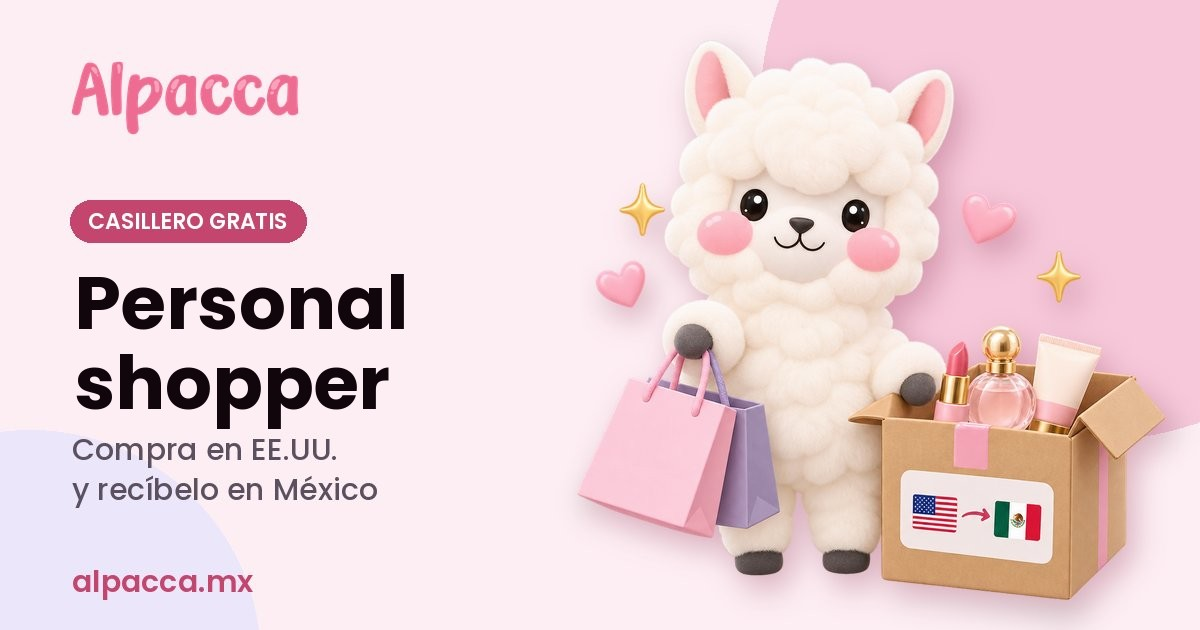
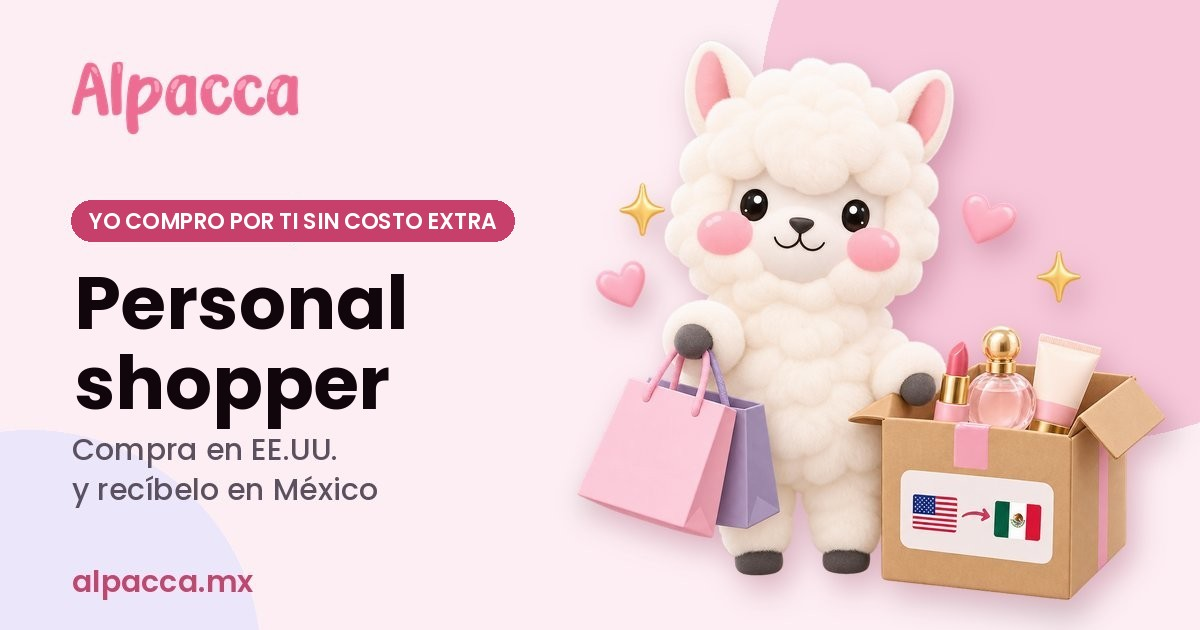
Personal shopper: etiqueta "Yo compro por ti sin costo extra" en la miniatura (#484)
Claude-Session: https://claude.ai/code/session_01Wu9FZE9ZiSTRdHxW17ALCd

Changed region(s): [[0.0617, 0.3016, 0.4317, 0.3921]]

diff --git a/netlify/functions/product-page.js b/netlify/functions/product-page.js
@@ -115,7 +115,7 @@ async function ogImage(tipo, name) {
 }
 // Sube este número cuando se cambien las imágenes de assets/og: WhatsApp y
 // Facebook guardan la miniatura por URL y si no cambia siguen con la vieja.
-const OG_VERSION = 7;
+const OG_VERSION = 8;
 // Accesos "preocupación de piel" del inicio (CONFIG.SKIN_CONCERNS en app.js).
 const PREOCUPACIONES = {
   acne: ["Acné y granitos", "Skincare coreano para piel con acné: ácido salicílico, árbol de té y centella. Envíos a todo México."],
